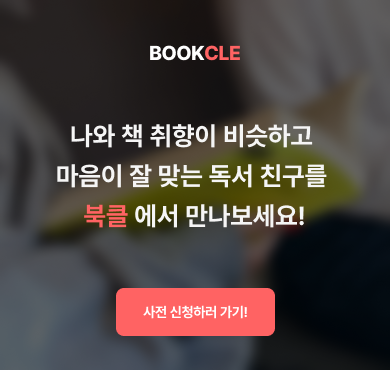
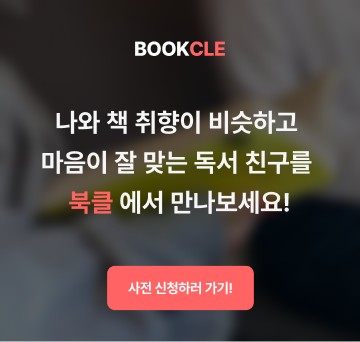
third update

diff --git a/static/css/duobary.css b/static/css/duobary.css
@@ -307,9 +307,9 @@ a:active{text-decoration: none; color:black}
     .bottom-banner__image {
         display: flex;
         position: absolute;
-        width: 390px;
-        height: 370px;
-        object-fit: cover;
+        width: 360px;
+        height: 341.5gpx;
+        object-fit:contain;
         background-image: url("../../static/assets/img/2.main/bottom-banner_phone.png");
     }
 }
